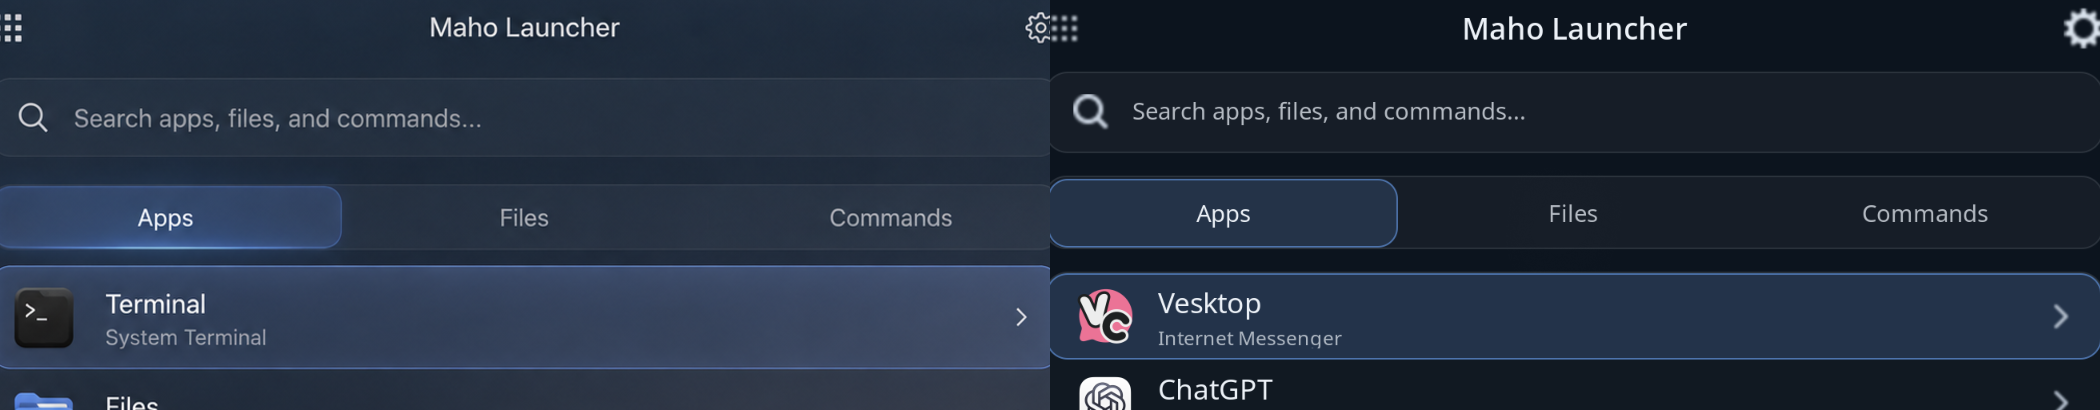
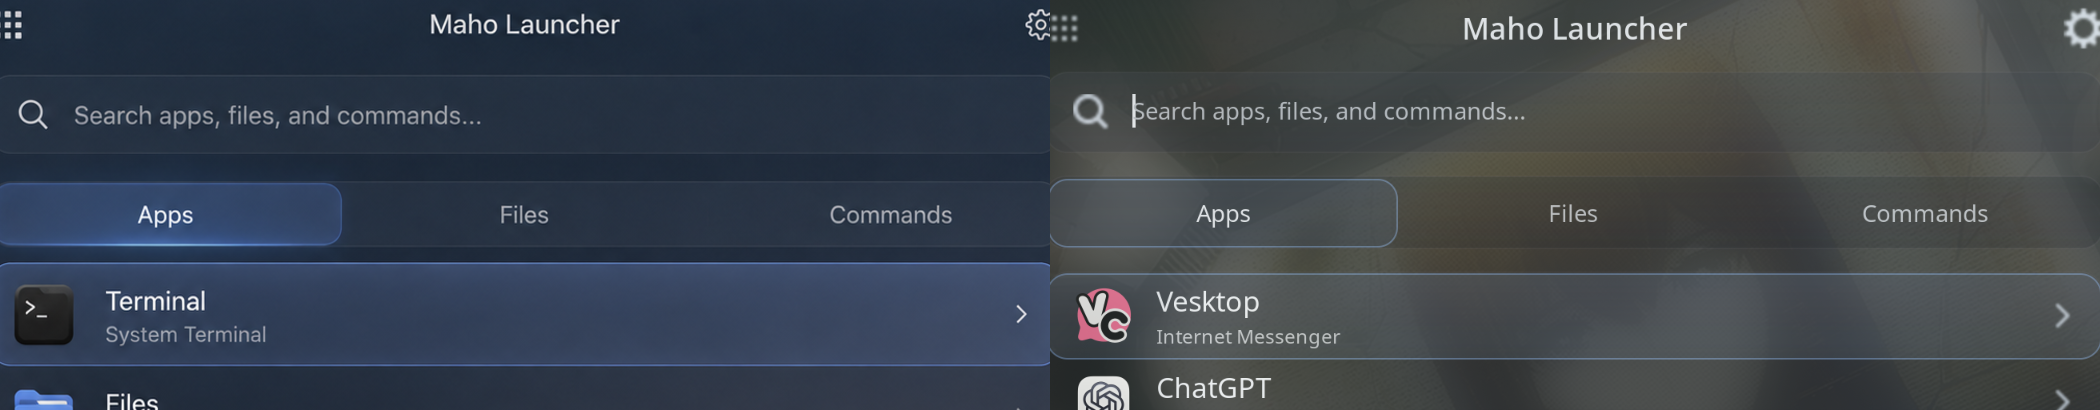
refactor(launcher): match Reference A glass material

diff --git a/lib/maho_launcher_theme.py b/lib/maho_launcher_theme.py
@@ -12,8 +12,12 @@ import tempfile
 
 
 FALLBACK = {
+    "background": "#15171c",
+    "surface": "#202228",
+    "surface_high": "#2b2e35",
     "foreground": "#edf2f8",
     "muted": "#aeb8c7",
+    "outline": "#7f8792",
     "primary": "#6a9fed",
 }
 
@@ -29,6 +33,33 @@ def parse_hex(value: object, fallback: str) -> tuple[int, int, int]:
 
 def rgb_hex(rgb: tuple[int, int, int]) -> str:
     return "#{:02x}{:02x}{:02x}".format(*rgb)
+
+
+def rgba(rgb: tuple[int, int, int], alpha: int) -> str:
+    return f"rgba({rgb[0]}, {rgb[1]}, {rgb[2]}, {alpha}%)"
+
+
+def blend(first: tuple[int, int, int], second: tuple[int, int, int], amount: float) -> tuple[int, int, int]:
+    return tuple(round(a + (b - a) * amount) for a, b in zip(first, second))
+
+
+def saturation(rgb: tuple[int, int, int]) -> float:
+    red, green, blue = (value / 255 for value in rgb)
+    return colorsys.rgb_to_hsv(red, green, blue)[1]
+
+
+def neutralize(rgb: tuple[int, int, int], maximum_saturation: float) -> tuple[int, int, int]:
+    red, green, blue = (value / 255 for value in rgb)
+    hue, current_saturation, value = colorsys.rgb_to_hsv(red, green, blue)
+    adjusted = colorsys.hsv_to_rgb(hue, min(current_saturation, maximum_saturation), value)
+    return tuple(round(channel * 255) for channel in adjusted)
+
+
+def palette_color(colors: dict[str, object], names: tuple[str, ...], fallback: str) -> tuple[int, int, int]:
+    for name in names:
+        if name in colors:
+            return parse_hex(colors[name], fallback)
+    return parse_hex(fallback, fallback)
 
 
 def relative_luminance(rgb: tuple[int, int, int]) -> float:
@@ -91,22 +122,73 @@ def load_colors(path: Path) -> dict[str, object]:
 
 
 def rasi_colors(colors: dict[str, object], icons_dir: Path) -> str:
+    background = palette_color(colors, ("background",), FALLBACK["background"])
+    surface = palette_color(colors, ("surface_container", "surface"), FALLBACK["surface"])
+    surface_high = palette_color(
+        colors,
+        ("surface_container_high", "surface_container", "surface"),
+        FALLBACK["surface_high"],
+    )
+    outline = palette_color(colors, ("outline_variant", "outline"), FALLBACK["outline"])
     foreground = readable_foreground(
         neutral_text(parse_hex(colors.get("foreground"), FALLBACK["foreground"]), 0.91, 0.97)
     )
-    muted = neutral_text(parse_hex(colors.get("muted"), FALLBACK["muted"]), 0.66, 0.76)
-    accent = restrained_accent(parse_hex(colors.get("primary"), FALLBACK["primary"]))
-    ar, ag, ab = accent
+    muted = neutral_text(parse_hex(colors.get("muted"), FALLBACK["muted"]), 0.72, 0.82)
+    primary = parse_hex(colors.get("primary"), FALLBACK["primary"])
+    accent = restrained_accent(primary)
+
+    low_chroma = saturation(primary) < 0.12
+    environment = neutralize(blend(background, surface, 0.55), 0.05 if low_chroma else 0.20)
+    accent_light = neutralize(accent, 0.10 if low_chroma else 0.46)
+
+    # Rofi surfaces stay graphite-first. Palette colors act like reflected
+    # environmental light instead of repainting the launcher background.
+    neutral_glass = (22, 23, 27)
+    panel = blend(neutral_glass, environment, 0.20)
+    panel = blend(panel, accent_light, 0.008 if low_chroma else 0.028)
+    panel_top = blend(blend(panel, neutralize(surface_high, 0.18), 0.20), foreground, 0.035)
+    panel_bottom = blend(panel, neutralize(background, 0.18), 0.12)
+
+    raised = blend(blend(panel, neutralize(surface_high, 0.18), 0.42), foreground, 0.025)
+    raised_top = blend(raised, foreground, 0.055)
+    segment = blend(panel, neutralize(surface, 0.15), 0.32)
+    segment_top = blend(segment, foreground, 0.045)
+    results = blend(panel, neutralize(surface, 0.12), 0.18)
+
+    selected_mode = blend(raised, accent_light, 0.06 if low_chroma else 0.13)
+    selected_mode_top = blend(selected_mode, foreground, 0.045)
+    selected_result = blend(raised, accent_light, 0.045 if low_chroma else 0.10)
+    selected_result = blend(selected_result, foreground, 0.04)
+    selected_result_top = blend(selected_result, foreground, 0.075)
+
+    rim = blend(neutralize(outline, 0.07), foreground, 0.32)
+    border_soft = blend(neutralize(outline, 0.06), foreground, 0.18)
+    focus = blend(accent_light, foreground, 0.08)
+    divider = blend(panel, foreground, 0.22)
+
     return f"""/* Generated atomically from Maho Palette V2 active.json. */
 * {{
-    maho-glass: rgba(14, 22, 33, 91%);
-    maho-inset: rgba(255, 255, 255, 4%);
-    maho-result-surface: rgba(255, 255, 255, 2%);
-    maho-selection: rgba({ar}, {ag}, {ab}, 20%);
-    maho-rim: rgba(226, 236, 247, 25%);
-    maho-border-soft: rgba(226, 236, 247, 12%);
-    maho-accent-rim: rgba({ar}, {ag}, {ab}, 62%);
-    maho-accent-soft: rgba({ar}, {ag}, {ab}, 17%);
+    maho-glass: {rgba(panel, 80)};
+    maho-panel-top: {rgba(panel_top, 76)};
+    maho-panel-bottom: {rgba(panel_bottom, 82)};
+    maho-inset: {rgba(raised, 48)};
+    maho-inset-top: {rgba(raised_top, 54)};
+    maho-segment: {rgba(segment, 38)};
+    maho-segment-top: {rgba(segment_top, 44)};
+    maho-result-surface: {rgba(results, 26)};
+    maho-selection: {rgba(selected_result, 54)};
+    maho-selection-top: {rgba(selected_result_top, 60)};
+    maho-rim: {rgba(rim, 18)};
+    maho-border-soft: {rgba(border_soft, 8)};
+    maho-divider: {rgba(divider, 5)};
+    maho-accent-rim: {rgba(focus, 42)};
+    maho-accent-soft: {rgba(selected_mode, 48)};
+    maho-accent-soft-top: {rgba(selected_mode_top, 54)};
+    maho-panel-material: linear-gradient(to bottom, {rgba(panel_top, 76)}, {rgba(panel, 80)}, {rgba(panel_bottom, 82)});
+    maho-inset-material: linear-gradient(to bottom, {rgba(raised_top, 54)}, {rgba(raised, 48)});
+    maho-segment-material: linear-gradient(to bottom, {rgba(segment_top, 44)}, {rgba(segment, 38)});
+    maho-active-mode-material: linear-gradient(to bottom, {rgba(selected_mode_top, 54)}, {rgba(selected_mode, 48)});
+    maho-selection-material: linear-gradient(to bottom, {rgba(selected_result_top, 60)}, {rgba(selected_result, 54)});
     maho-foreground: {rgb_hex(foreground)};
     maho-muted: {rgb_hex(muted)};
     maho-icon-app-grid: "{icons_dir / 'app-grid.png'}";

diff --git a/design-qa.md b/design-qa.md
@@ -4,50 +4,58 @@
 - Rendered implementation: `docs/qa/maho-launcher-runtime-blue.png`.
 - Full-view evidence: `docs/qa/maho-launcher-panel-comparison.png` (source left, implementation right).
 - Focused evidence: `docs/qa/maho-launcher-focus-comparison.png` (header, search, segmented modes, and selected row; source left, implementation right).
-- Runtime viewport: 1600 × 1000 logical pixels on a 2560 × 1600 monitor at 1.6 scale; native Wayland Rofi, not a browser/CSS surface.
-- Source pixels: 1312 × 1199. The source panel was cropped to 1108 × 1102 and normalized to 1152 × 1146, then centered on a 1152 × 1152 comparison canvas.
-- Implementation pixels: 1152 × 1152, corresponding to the 720 × 720 logical Rofi window at 1.6 density. No density resampling was applied to the implementation.
-- State: Apps mode, immediate search focus, first result selected, eight visible installed desktop entries, cool/blue Palette V2 fixture.
+- Runtime viewport: 1600 × 1000 logical pixels on a 2560 × 1600 monitor at 1.6 scale; native Wayland Rofi, not a browser or CSS surface.
+- Source pixels: 1312 × 1199. The source panel was cropped to 1108 × 1102, normalized to 1152 × 1146, and placed on a 1152 × 1152 comparison canvas.
+- Implementation pixels: 1152 × 1152, corresponding to the frozen 720 × 720 logical Rofi window at 1.6 density. No density resampling was applied to the implementation.
+- State: Apps mode, immediate search focus, first result selected, eight visible installed desktop entries, cool-blue Palette V2 fixture, detailed wallpaper backdrop, production `blur + ignore_alpha + xray` layer material.
 
 **Findings**
 
 - No actionable P0, P1, or P2 mismatch remains.
 - [P3] Rofi text metrics are slightly more rigid than the reference rendering.
   Location: row primary/secondary labels and tab labels.
-  Evidence: the aligned focus comparison shows the same hierarchy and wrapping, but Rofi/Pango uses fixed theme-wide optical metrics rather than the reference's individually tuned type treatment.
+  Evidence: the aligned focused comparison preserves hierarchy and wrapping, but Rofi/Pango uses fixed optical metrics rather than the reference's individually tuned type treatment.
   Impact: minor optical difference only; scan order, contrast, eight-row density, and two-line metadata remain intact.
   Follow-up: revisit only if Rofi exposes more granular per-line typography without replacing mature `drun` rendering.
+- [P3] Launcher-local blur strength inherits the compositor kernel.
+  Location: Hyprland layer material.
+  Evidence: the final comparison shows broad softened wallpaper forms through the panel, while Hyprland exposes per-layer `blur`, `ignore_alpha`, and `xray` but keeps size, passes, noise, contrast, brightness, and vibrancy in global decoration settings.
+  Impact: the launcher cannot independently increase blur radius further without changing system-wide decoration behavior. The current scoped rule remains compelling and readable without persistent side effects.
+  Follow-up: adopt per-layer kernel controls if Hyprland exposes them later.
 - [P3] The compositor material scope cannot be uniquely namespaced per invocation.
-  Location: Hyprland blur rule.
-  Evidence: Rofi 2.0 exposes the fixed Wayland namespace `rofi`; the launcher uses a runtime-only rule and disables it on exit.
-  Impact: a second unrelated Rofi menu opened concurrently could receive the same blur for the launcher's short lifetime. Process ownership remains isolated.
+  Location: Hyprland layer rule.
+  Evidence: Rofi 2.0 exposes the fixed Wayland namespace `rofi`; the launcher uses a named runtime rule and disables it on exit.
+  Impact: an unrelated Rofi surface opened concurrently could receive the same blur during the launcher's short lifetime. Process ownership remains isolated.
   Follow-up: adopt a per-invocation namespace when the installed Rofi variant provides one.
 
 **Required Fidelity Surfaces**
 
 - Fonts and typography: Noto Sans/Pango hierarchy is readable, weight-balanced, untruncated, and visually close after normalization. The P3 optical-metric difference above is accepted.
-- Spacing and layout rhythm: 720 × 720 logical frame, 24px radius, header symmetry, inset search, one segmented control, one shared result surface, eight-row rhythm, and bottom affordance align with the source. No clipping or overlap remains.
-- Colors and visual tokens: neutral 91% cool glass remains dominant. Palette primary is restrained to selection/focus surfaces; foreground, muted labels, icons, chevrons, rim, and search affordances remain readable across monochrome, cool, warm, and saturated fixtures.
-- Image quality and asset fidelity: all visible application imagery uses the installed desktop-entry icons without recoloring or substitution. Header/search/chevron controls use packaged Adwaita-derived raster icons with clean transparency and no placeholder, emoji, inline SVG, or CSS-drawn replacement.
-- Copy and content: fixed product copy matches Reference A. Runtime application names/descriptions intentionally reflect installed desktop metadata rather than the reference's illustrative application list.
-- Interaction/accessibility: immediate search focus, typing, clear, Up/Down, Return, Escape, mode changes, paging, Files, Commands, and exact `drun` activation were tested. Standard Rofi pointer semantics remain enabled. Automated compositor-level pointer injection was unavailable and is recorded as a runtime limitation, not a visual blocker.
+- Spacing and layout rhythm: the frozen 720 × 720 logical frame, 24px radius, header symmetry, inset search, one segmented control, one shared result surface, eight-row rhythm, and bottom affordance remain unchanged. No clipping or overlap is visible.
+- Colors and visual tokens: the panel uses a neutral graphite foundation with subtle environment mixing, 76/80/82% vertical material depth, restrained palette accents, a faint outer rim, quiet separators, and a brighter selected-state edge. Monochrome, cool blue, warm orange, pink/purple, and muted green fixtures remain neutral at panel scale and expressive at focus scale.
+- Image quality and asset fidelity: all application imagery uses installed desktop-entry icons without recoloring or substitution. Header, search, and chevron controls use packaged Adwaita-derived raster icons with clean transparency and no placeholders, emoji, inline SVG, or CSS-drawn replacement.
+- Copy and content: fixed product copy matches Reference A. Runtime application names and descriptions intentionally reflect installed desktop metadata rather than the reference's illustrative list.
+- Interaction/accessibility: immediate search focus, typing, clear, Up/Down, Return, Escape, mode changes, paging, Files, Commands, and exact `drun` activation remain covered. Focus rims, foreground text, muted metadata, icons, and chevrons remain legible across all five fixtures.
 
 **Comparison History**
 
-1. Initial comparison found a P2 proportion/density mismatch: the 720 × 780 logical implementation was visibly more elongated than Reference A, with larger icons and looser row rhythm.
-2. Fix applied in `config/rofi/maho-launcher/launcher.rasi`: height 780 → 720, vertical padding 24 → 20, main spacing 16 → 14, row padding 8 → 6, icon size 42 → 40.
-3. Post-fix evidence in `docs/qa/maho-launcher-panel-comparison.png` and `docs/qa/maho-launcher-focus-comparison.png` shows aligned panel proportions, eight-row density, header/search/mode geometry, selected slab, and icon scale. No P0/P1/P2 issue remains.
+1. The earlier layout milestone found and fixed a P2 proportion/density mismatch: 720 × 780 became the frozen 720 × 720 Reference A geometry, with aligned eight-row rhythm and icon scale.
+2. Material baseline comparison found a P2 mismatch: a fixed dark-navy fill read as flat and opaque, with little wallpaper blur, excessive blue cast, and weak depth separation.
+3. First material iteration added semantic graphite-first gradients and palette restraint, but the normalized comparison still found a P2 density mismatch because the panel's base color and gradient were both composited. Fix: make every gradient-backed surface transparent underneath so material alpha is applied once.
+4. Second material iteration found the blur backdrop incomplete over application windows. Fix: keep the scoped runtime-only layer rule, lower `ignore_alpha` to 0.06, and enable `xray` so the blur samples the full backdrop without changing global decoration settings.
+5. Post-fix evidence in `docs/qa/maho-launcher-panel-comparison.png` and `docs/qa/maho-launcher-focus-comparison.png` shows neutral frosted glass, softened wallpaper forms, subtle cool environmental tint, differentiated search/mode/result surfaces, a selected slab with a brighter focus edge, restrained separators, readable two-line metadata, and unchanged geometry. No actionable P0/P1/P2 finding remains.
 
 **Open Questions**
 
-- None blocking. The installed-app content difference is intentional product behavior, and the two Rofi limitations are classified as P3/expected.
+- None blocking. Installed-app content differences are intentional product behavior; the Rofi/Hyprland constraints above are expected P3 limitations.
 
 **Implementation Checklist**
 
-- [x] Match normalized full-view composition and focused header/result region.
-- [x] Preserve eight visible results and native desktop-entry imagery.
-- [x] Verify palette-neutral material and selected/focus accents.
-- [x] Exercise primary modes and keyboard interactions in the real Wayland session.
-- [x] Record Rofi-specific residual limitations without hiding them.
+- [x] Match the normalized full-view composition and focused header/result region.
+- [x] Replace the fixed opaque navy with a single-pass graphite-first material gradient.
+- [x] Scope full-backdrop blur to the launcher layer and restore the rule on close.
+- [x] Verify five palette families, including neutral monochrome behavior.
+- [x] Preserve eight visible results, installed desktop-entry imagery, layout, and behavior.
+- [x] Complete lifecycle, performance, parser, contract, and comparison checks.
 
 final result: passed

diff --git a/docs/MAHO-LAUNCHER.md b/docs/MAHO-LAUNCHER.md
@@ -52,17 +52,43 @@ The header and footer affordances use supported Rofi actions:
 `~/.cache/maho/launcher/` using a same-directory temporary file, `fsync`, and
 atomic replacement.
 
-The wallpaper-derived primary color is restrained and used only for selected
-tabs, the selected result, and focus edges. Glass remains a fixed neutral cool
-material across monochrome, cool, warm, and saturated palettes. Foreground and
-muted semantics are desaturated and contrast-bounded so a colorful wallpaper
-cannot recolor the entire interface.
+The material starts from neutral graphite, then mixes in a very small amount of
+the wallpaper environment. Primary color remains strongest at the selected tab,
+selected result, and focus rim. Low-chroma palettes automatically collapse back
+to neutral gray. Foreground and muted semantics are desaturated and
+contrast-bounded so a colorful wallpaper cannot flood the whole launcher.
+
+The generator emits separate top/base material stops for the panel, search,
+segmented modes, active tab, and selected row. Rofi composites each gradient
+once over the blurred backdrop; transparent base fills prevent accidental
+double opacity. The outer panel runs at 76/80/82% from top through bottom,
+while inset and selected surfaces remain more transparent so the hierarchy
+comes from restrained depth rather than stacked opaque cards.
+
+Five Palette V2 material fixtures are contract-tested and Rasi-parsed:
+
+| Palette family | Panel RGBA | Selected row RGBA | Focus rim RGBA | Outcome |
+| --- | --- | --- | --- | --- |
+| Monochrome | 24/25/28/80 | 55/55/56/54 | 190/190/190/42 | neutral gray, no hue cast |
+| Cool blue | 28/32/37/80 | 66/75/87/54 | 146/192/254/42 | cool reflected tint, blue focus |
+| Warm orange | 31/29/31/80 | 75/63/59/54 | 254/180/146/42 | neutral panel, warm selected state |
+| Pink/purple | 30/27/33/80 | 71/58/71/54 | 234/145/218/42 | restrained magenta reflection |
+| Muted green | 27/29/29/80 | 62/66/55/54 | 175/190/119/42 | muted olive focus without green flood |
 
 ## Hyprland material
 
 While Maho Launcher is open, its wrapper installs a named runtime-only
-Hyprland layer rule with blur and `ignore_alpha`. The rule is disabled on exit;
-no persistent global blur setting or Maho Edge rule is modified.
+Hyprland layer rule with blur, `ignore_alpha = 0.06`, and `xray`. `xray` lets
+the frosted surface sample the full backdrop instead of collapsing to a flat
+fill over application windows. The rule is disabled on exit; no persistent
+global blur setting or Maho Edge rule is modified.
+
+Hyprland exposes blur kernel size, pass count, noise, contrast, and vibrancy as
+global decoration settings rather than per-layer rule properties. Maho
+Launcher therefore inherits the user's compositor blur kernel and limits its
+own changes to the scoped `rofi` layer rule. This preserves system ownership
+while producing the strongest launcher-local material the installed compositor
+API supports.
 
 Rofi 2.0 exposes the fixed Wayland layer namespace `rofi` and does not provide a
 per-invocation namespace flag. Consequently the temporary material rule can
@@ -120,16 +146,20 @@ ChatGPT), OBS Studio, and unusual entries/icons were discovered from the 38
 installed desktop entries. Flatpak is not installed, so no Flatpak application
 was available for coverage.
 
-Measured from wrapper start until the owned Rofi PID became live, the first
-process-visible open was 117 ms. Five subsequent opens measured 115–139 ms
-(127.4 ms mean). Rofi RSS was 20,176 KiB. Fifty automated open/close cycles
-completed with zero failures, no remaining PID, and no zombie Rofi process. A
-concurrent second invocation returned `maho-launcher: already running`.
+Measured from wrapper start until the owned Rofi PID became live after the
+material update, the first process-visible open was 123 ms. Five subsequent
+opens measured 115–147 ms (124.8 ms mean). Rofi RSS was 20,112 KiB. The prior
+baseline was 117 ms cold, 127.4 ms warm mean, and 20,176 KiB RSS, so the visual
+material introduced no meaningful launch-time or memory regression. Fifty
+automated open/close cycles completed with zero failures, no remaining PID,
+and no zombie Rofi process. A concurrent second invocation returned
+`maho-launcher: already running`.
 
-Four generated Palette V2 fixtures (monochrome, cool, warm, saturated) passed
-atomic generation and live Rasi parsing. Live visual captures confirmed that
-the neutral material remains constant while only selected/focus accents change.
-The final Reference A comparison is recorded in `design-qa.md`.
+Five generated Palette V2 fixtures (monochrome, cool blue, warm orange,
+pink/purple, and muted green) passed atomic generation, material invariants,
+and live Rasi parsing. The cool fixture was rendered over a detailed wallpaper
+with the production layer rule for the final normalized Reference A comparison
+recorded in `design-qa.md`.
 
 The installed acceptance bridge was validated as a live fixed command and the
 Edge surface remained responsive after launcher cycles. This environment has
